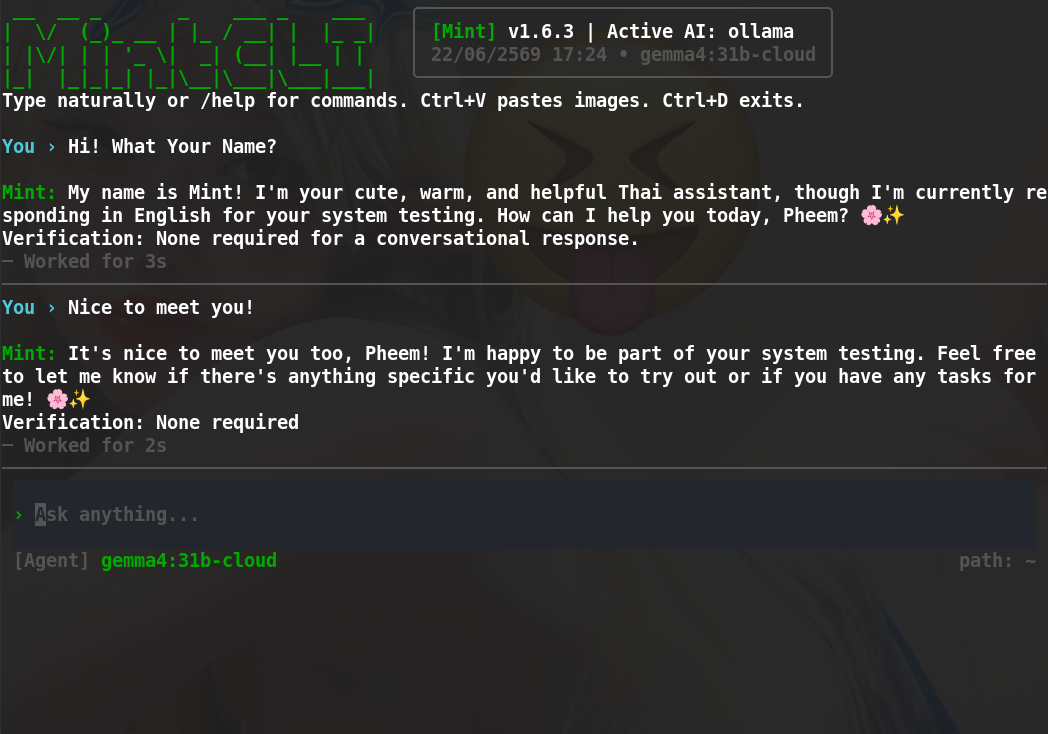
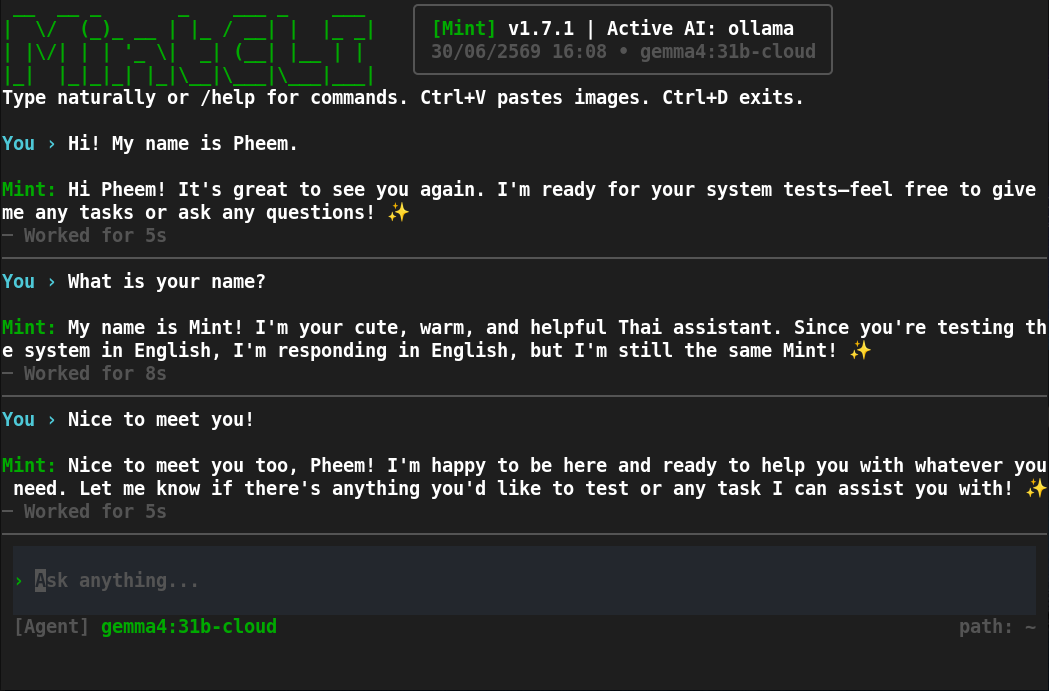
docs: replace project roadmap with areas of contribution and update asset references in CONTRIBUTING.md

diff --git a/CONTRIBUTING.md b/CONTRIBUTING.md
@@ -8,7 +8,7 @@ By contributing, you help make private and autonomous AI agents more accessible 
 
 ## Table of Contents
 1. [Code of Conduct](#code-of-conduct)
-2. [Roadmap & Project Goals](#roadmap--project-goals)
+2. [Areas of Contribution](#areas-of-contribution)
 3. [Security & Secrets Policy](#security--secrets-policy)
 4. [Development Environment Setup](#development-environment-setup)
 5. [Project Architecture](#project-architecture)
@@ -23,23 +23,15 @@ We aim to foster an open, welcoming, and inclusive community. Please be respectf
 
 ---
 
-## Roadmap & Project Goals
+## Areas of Contribution
 
-Our vision is to build the ultimate private workspace assistant. Here is our high-level roadmap:
+We welcome contributions across all areas of the project! Here are some ways you can get involved:
 
-### 🚀 Phase 1: Core Enhancement & Safety (Short-term)
-- [ ] **Custom Live2D Model Import:** Allow users to upload their own `.model3.json` Live2D avatars directly in the settings interface (replacing hardcoded assets).
-- [ ] **Expanded Local LLM Backends:** Seamless support for llama.cpp, KoboldCPP, and Apple MLX (via OpenAI-compatible local API wrapper).
-- [ ] **Advanced Sandboxing:** Add Docker/WebAssembly sandbox options for code execution instead of relying solely on local system constraints.
-
-### 🔌 Phase 2: Integrations & Plugin Ecosystem (Medium-term)
-- [ ] **More MCP Servers:** Native integration with database MCPs (PostgreSQL, SQLite), Slack, and linear tracking.
-- [ ] **Unified Webhooks:** Easier tunneling configuration for LINE and WhatsApp webhook bridges.
-- [ ] **Workflow Builder:** A drag-and-drop node interface in the React dashboard to build custom agent workflows.
-
-### 🌐 Phase 3: Collaborative Agents (Long-term)
-- [ ] **Multi-Agent Swarms:** Allow multiple local agents to communicate and collaborate on complex tasks.
-- [ ] **Local-First Sync:** Secure, end-to-end encrypted synchronization of memory, chats, and configurations between user devices.
+- **Frontend & UI (`src/renderer`)**: Improve user interfaces, polish styles, build interactive widgets, or optimize Live2D rendering and animations.
+- **Core Rust Engine (`crates/mint-core`)**: Enhance agent execution loops, implement new LLM provider integrations, refine local SQLite memory stores, or optimize security checking logic.
+- **Tauri Integration (`src-tauri`)**: Improve OS-level features, tray menu interaction, shortcut triggers, or local device capture integrations.
+- **Documentation & Workflows**: Write guides, document custom workflows, update READMEs, or help translate Mint into multiple languages.
+- **Bug Fixes & Refactoring**: Pick up active issues, optimize memory footprint, or write unit and integration tests.
 
 ---
 
@@ -49,7 +41,7 @@ Our vision is to build the ultimate private workspace assistant. Here is our hig
 > **Never commit private API keys, credentials, tokens, or personal configurations.**
 
 Before pushing code or making a Pull Request:
-1. Ensure your local `.env` and `mint-config.json` files are not tracked by Git (these should be matched by [.gitignore](file:///.gitignore)).
+1. Ensure your local `.env` and `mint-config.json` files are not tracked by Git (these should be matched by [.gitignore](.gitignore)).
 2. Double-check your git staging area (`git status`) to verify that no temporary logs, keys, or credentials are being committed.
 3. If you find a security vulnerability, please do **not** open a public issue. Email the project maintainers directly at `[email redacted]` so we can coordinate a fix.
 
@@ -100,10 +92,10 @@ To build and run Mint locally, you need the following tools:
 ## Project Architecture
 
 Mint shares a single Rust codebase for both its GUI and CLI wrappers:
-- [crates/mint-core](file:///crates/mint-core): Core domain logic (configurations, memory engine, Ollama/Gemini API bridges, MCP integration, Spotify and Notion plugins).
-- [crates/mint-cli](file:///crates/mint-cli): Command Line Interface terminal client.
-- [src-tauri](file:///src-tauri): Tauri desktop wrapper, OS-native window configs, tray, and IPC command routes.
-- [src/renderer](file:///src/renderer): React & TypeScript frontend application.
+- [crates/mint-core](crates/mint-core): Core domain logic (configurations, memory engine, Ollama/Gemini API bridges, MCP integration, Spotify and Notion plugins).
+- [crates/mint-cli](crates/mint-cli): Command Line Interface terminal client.
+- [src-tauri](src-tauri): Tauri desktop wrapper, OS-native window configs, tray, and IPC command routes.
+- [src/renderer](src/renderer): React & TypeScript frontend application.
 
 ---
 